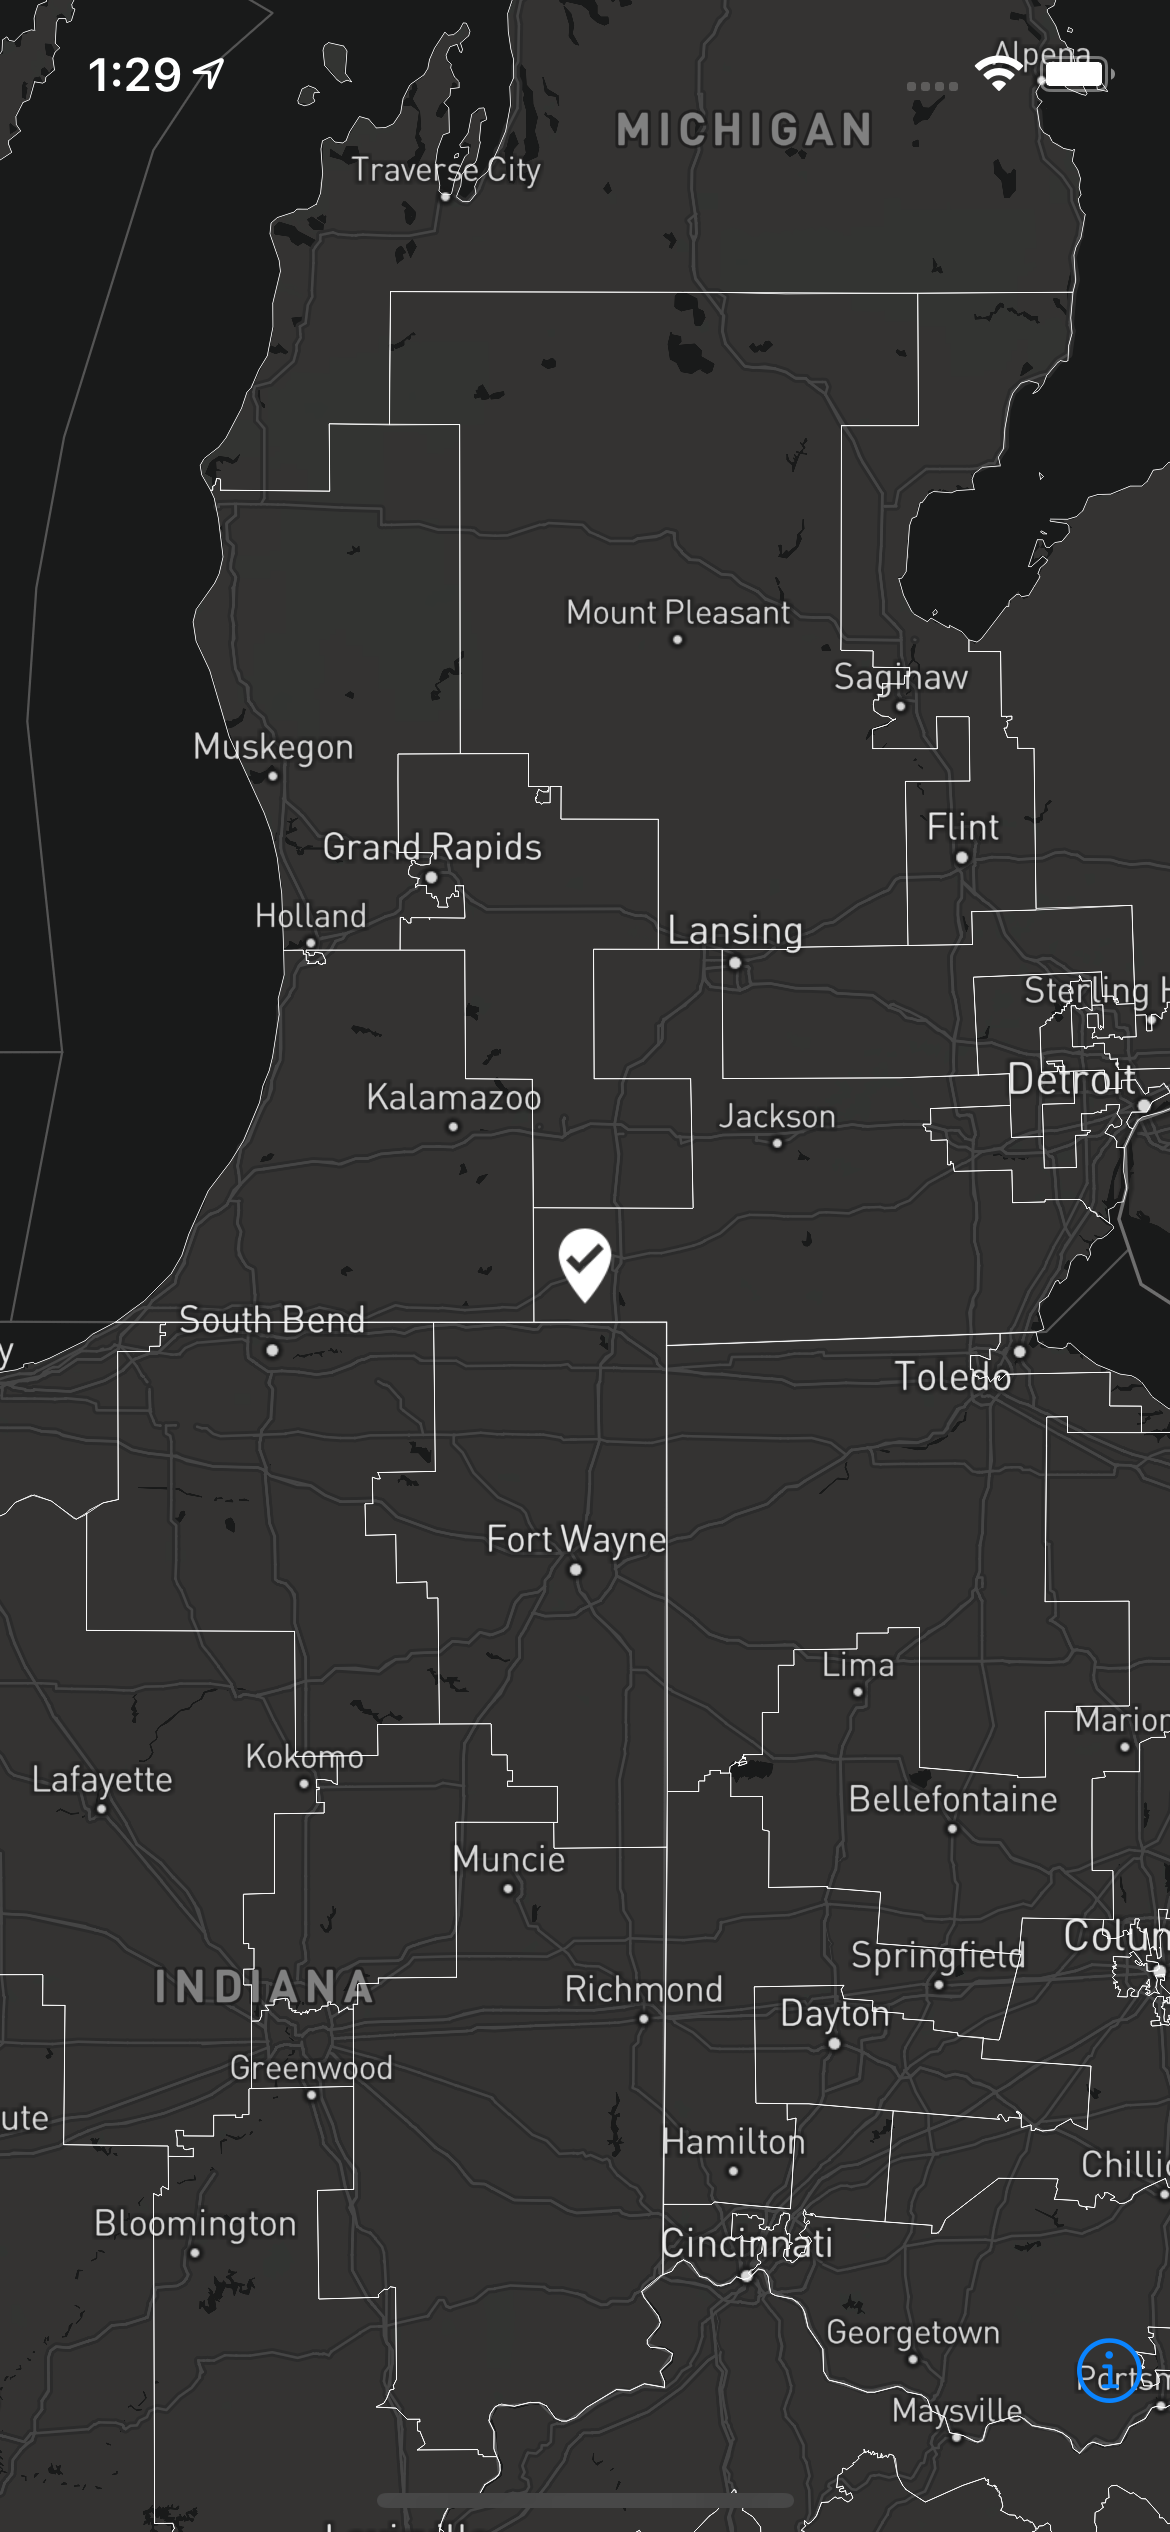
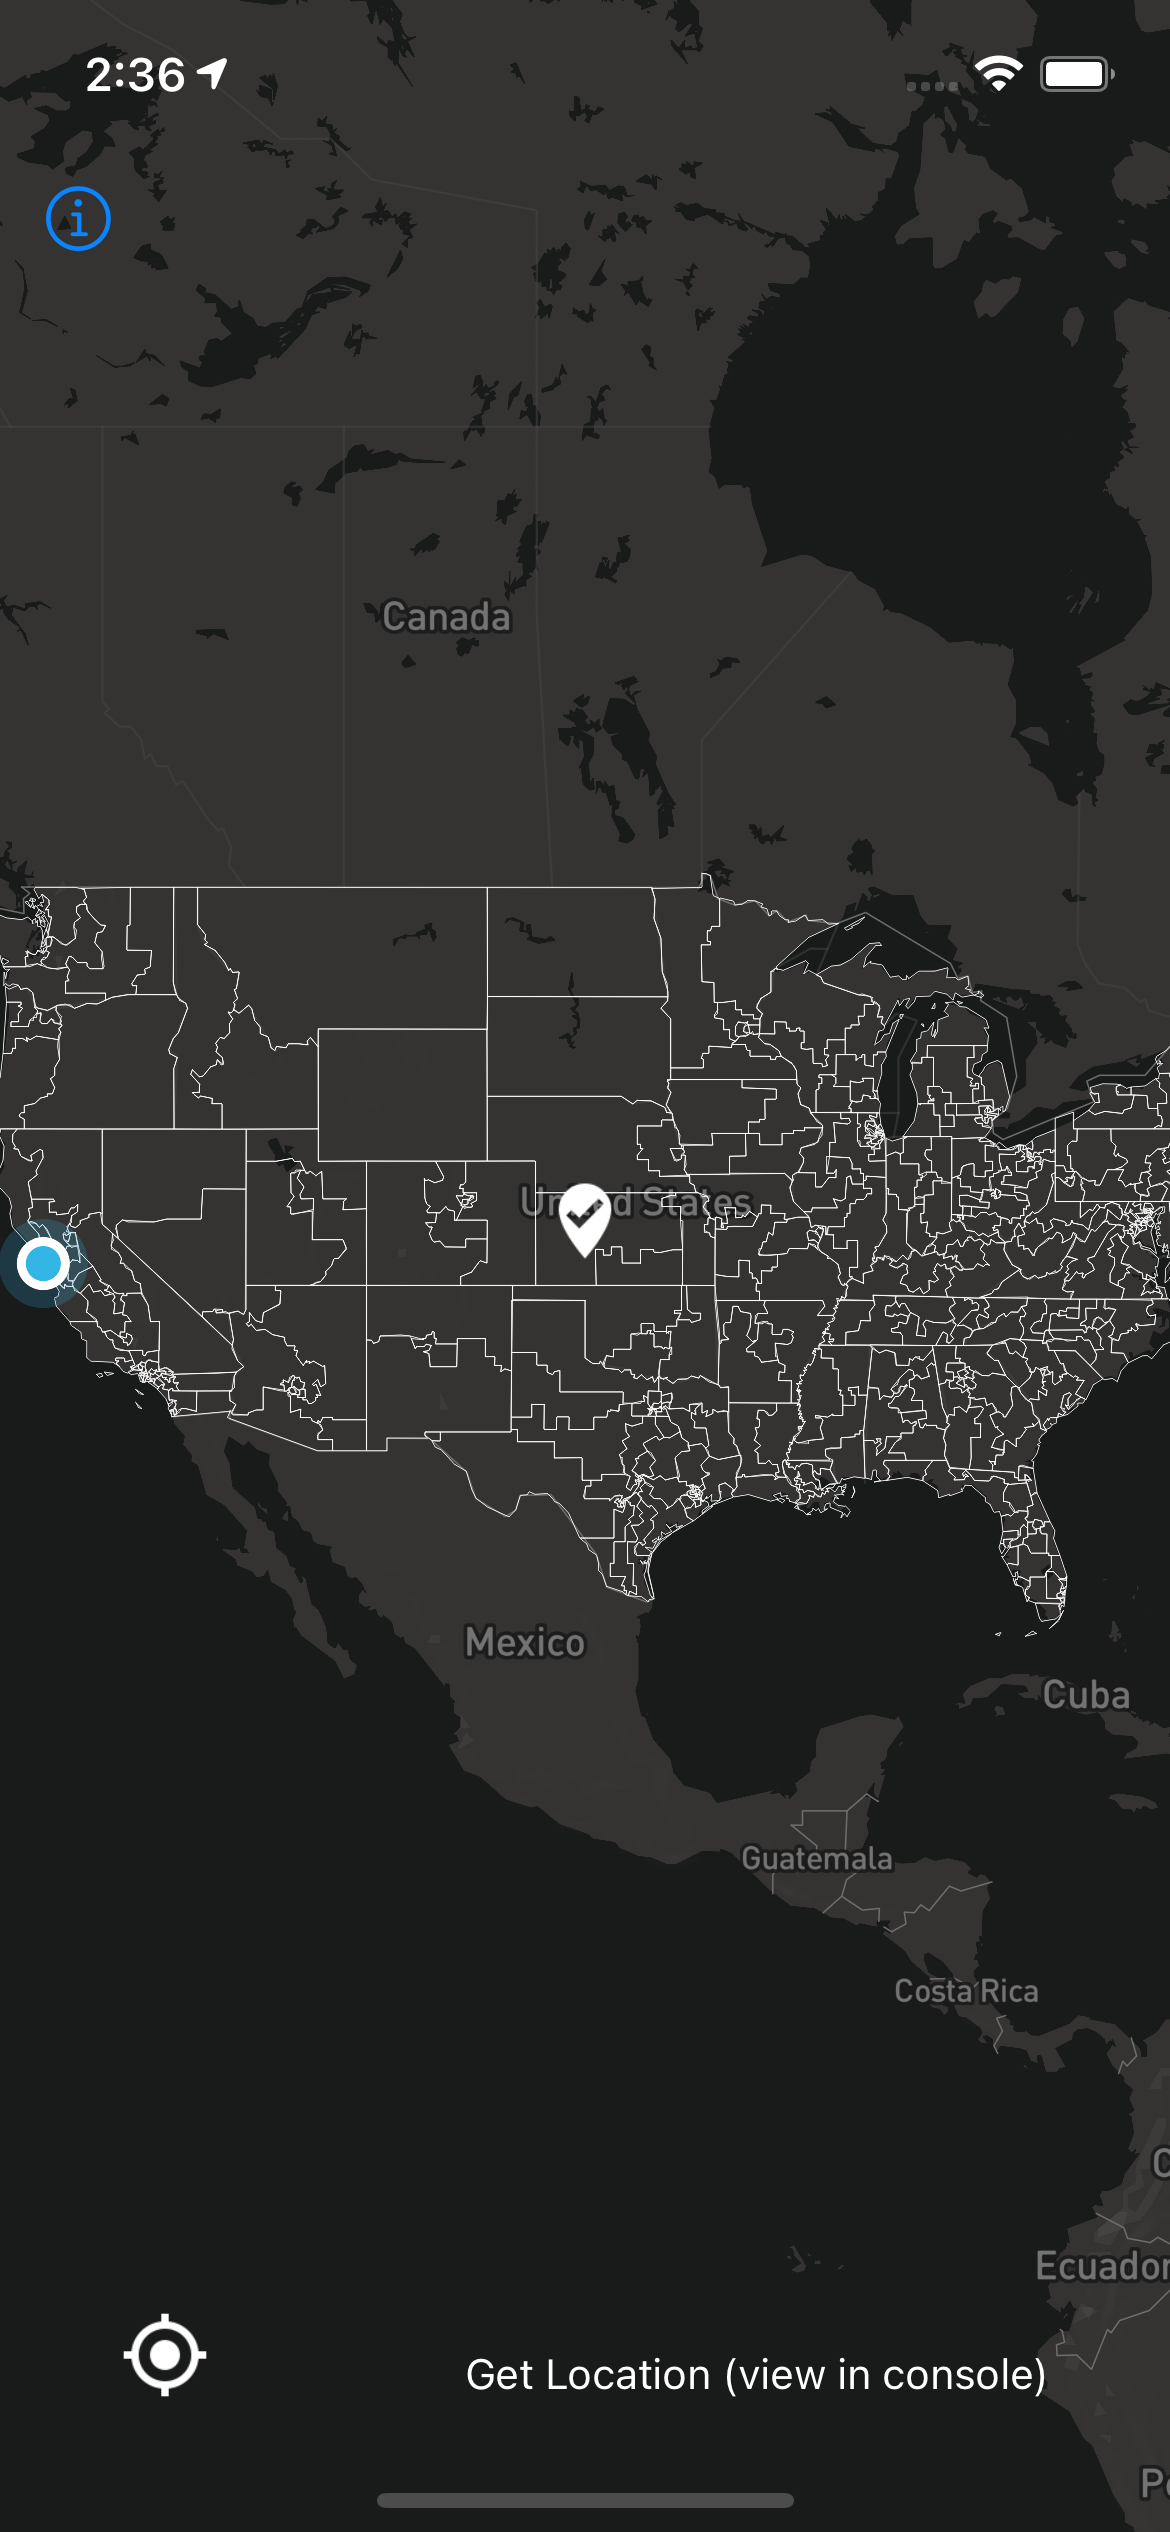
Add location tracker + btn to console.log(location)

diff --git a/App.js b/App.js
@@ -14,8 +14,15 @@ See the License for the specific language governing permissions and
 limitations under the License.
  */
 
-import React from 'react';
-import {Image, StyleSheet, useColorScheme, View} from 'react-native';
+import React, {useRef, useState} from 'react';
+import {
+  Image,
+  StyleSheet,
+  Text,
+  TouchableOpacity,
+  useColorScheme,
+  View,
+} from 'react-native';
 import MapboxGL from '@react-native-mapbox-gl/maps';
 
 MapboxGL.setAccessToken(
@@ -38,16 +45,26 @@ const styles = StyleSheet.create({
   },
   center: {
     position: 'absolute',
-    top: 0,
+    justifyContent: 'center',
+    alignItems: 'center',
+  },
+  pinCenter: {
+    top: -30, // adjust for pin
     left: 0,
     right: 0,
     bottom: 0,
-    justifyContent: 'center',
-    alignItems: 'center',
+  },
+  locationCenter: {
+    bottom: 44,
+    left: 40,
   },
   imageSize: {
     height: 30,
     width: 30,
+  },
+  getLocationCenter: {
+    bottom: 44,
+    right: 40,
   },
 });
 
@@ -64,40 +81,90 @@ const districtsGeoJson =
 // https://github.com/react-native-mapbox-gl/maps/blob/0e173c757c754ca6b3710fab88fe37b7b2014995/example/src/examples/GeoJSONSource.js
 export default () => {
   const isDarkMode = useColorScheme() === 'dark';
-  const imageColor = {tintColor: isDarkMode ? 'white' : 'black'};
+  const imageTintColor = isDarkMode ? 'white' : 'black';
+  const imageColor = {tintColor: imageTintColor};
+  const textColor = {color: imageTintColor};
   const borderColor = isDarkMode ? 255 : 0;
   const borderLayerColor = {
     ...layerStyles.smileyFace,
     fillOutlineColor: `rgba(${borderColor}, ${borderColor}, ${borderColor}, 0.84)`,
   };
+  const [followUser, setFollowUser] = useState(false);
+  const locationImageTintColor = {
+    tintColor: followUser ? '#006ee6' : isDarkMode ? 'white' : 'black',
+  };
 
-  const onUserMarkerPress = () => {
-    console.log('You pressed on the user location annotation');
+  const mapRef = useRef();
+  const cameraRef = useRef();
+
+  const onUserMarkerUpdate = location => {
+    if (followUser) {
+      cameraRef.current.flyTo([
+        location.coords.longitude,
+        location.coords.latitude,
+      ]);
+    }
+  };
+
+  const followUserPress = () => {
+    setFollowUser(_followUser => !_followUser);
+  };
+
+  const displayLocation = async () => {
+    console.log('center: ', await mapRef.current.getCenter());
+    console.log(
+      'getPointInView: ',
+      await mapRef.current.getPointInView(await mapRef.current.getCenter()),
+    );
   };
 
   return (
     <View style={styles.page}>
       <View style={styles.container}>
         <MapboxGL.MapView
+          ref={mapRef}
+          attributionPosition={{top: 14, left: 14}}
           style={styles.map}
           logoEnabled={false}
-          styleURL={isDarkMode ? MapboxGL.StyleURL.Dark : null}>
+          styleURL={
+            isDarkMode ? MapboxGL.StyleURL.Dark : MapboxGL.StyleURL.Street
+          }>
           <MapboxGL.ShapeSource id="smileyFaceSource" url={districtsGeoJson}>
             <MapboxGL.FillLayer id="smileyFaceFill" style={borderLayerColor} />
           </MapboxGL.ShapeSource>
           <MapboxGL.Camera
+            ref={cameraRef}
             defaultSettings={{
               centerCoordinate: [-100, 37.6396365],
               zoomLevel: 2.5,
             }}
           />
-          <MapboxGL.UserLocation visible={true} onPress={onUserMarkerPress} />
+          <MapboxGL.UserLocation onUpdate={onUserMarkerUpdate} />
         </MapboxGL.MapView>
-        <View style={styles.center} pointerEvents="box-none">
+        <View
+          style={[styles.center, styles.pinCenter]}
+          pointerEvents="box-none">
           <Image
             style={[styles.imageSize, imageColor]}
             source={require('./pin/pin.png')}
           />
+        </View>
+        <View
+          style={[styles.center, styles.locationCenter]}
+          pointerEvents="box-none">
+          <TouchableOpacity onPress={followUserPress}>
+            <Image
+              style={[styles.imageSize, locationImageTintColor]}
+              source={require('./my-location/my-location.png')}
+            />
+          </TouchableOpacity>
+        </View>
+        <View
+          style={[styles.center, styles.getLocationCenter]}
+          pointerEvents="box-none">
+          <TouchableOpacity onPress={displayLocation}>
+            <Text style={textColor}>Get Location (view in console)</Text>
+          </TouchableOpacity>
         </View>
       </View>
     </View>

diff --git a/README.md b/README.md
@@ -9,6 +9,8 @@
 This repository was created for the [Hear Ye app](https://hearye.us/).
 This utilizes the free MapBox SDK.
 
+You can press a button and get your current geographic position
+with the ability to continuously track your location.
 It shows all U.S. Congressional Districts and a
 location pin at the center of the screen. Additionally,
 it supports dark mode using the `useColorScheme` hook.
